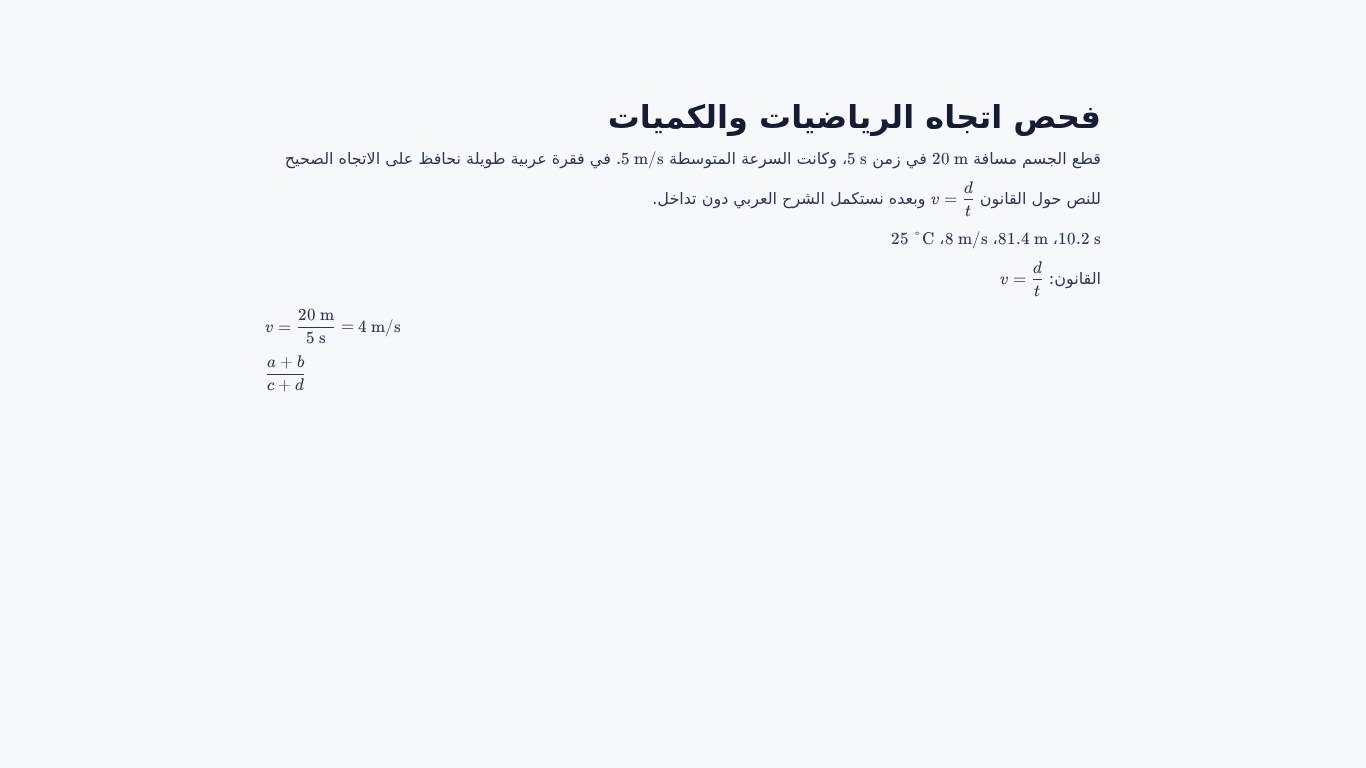
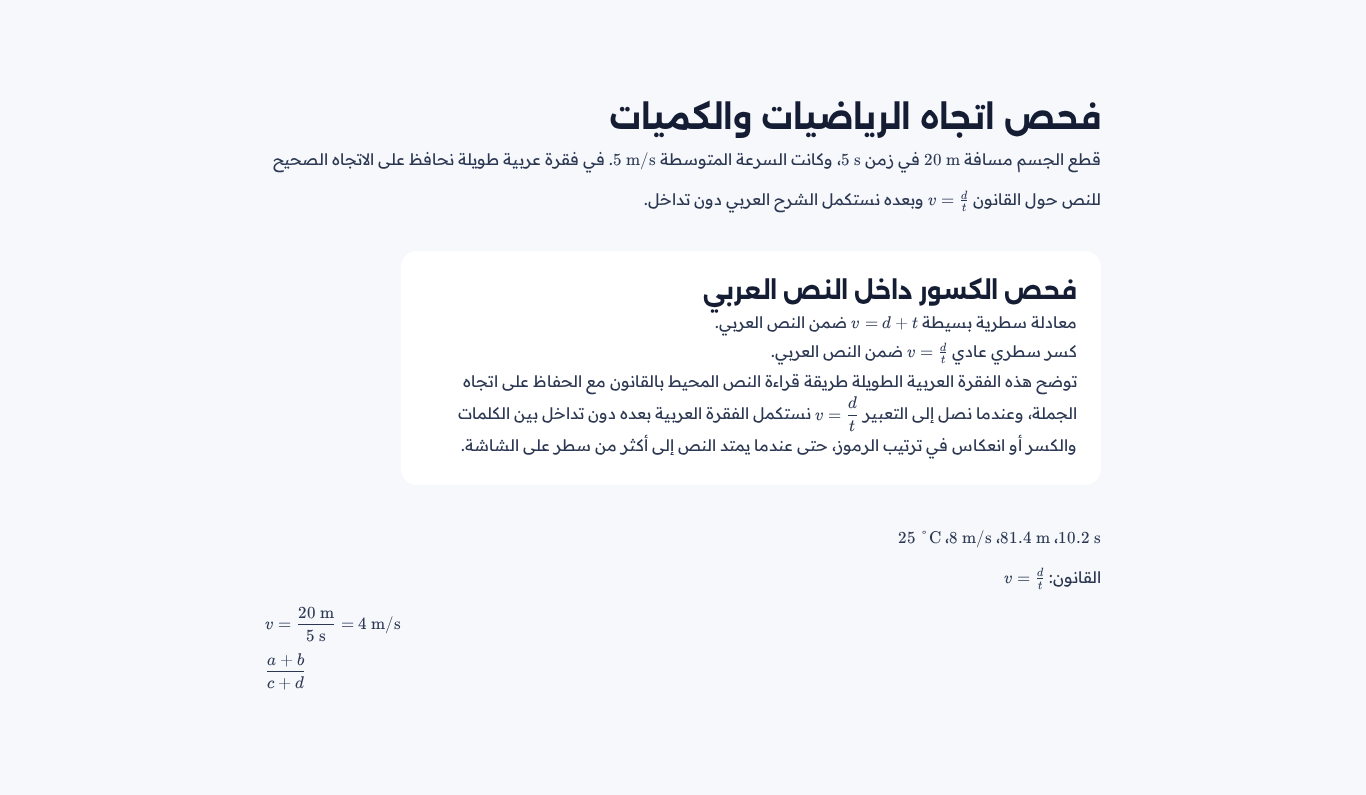
Keep inline math in text style and verify RTL fractions

diff --git a/e2e/fixture.tsx b/e2e/fixture.tsx
@@ -1,6 +1,9 @@
 import React from 'react'
 import { createRoot } from 'react-dom/client'
 import { BlockMath, Measure, RichText, Tex } from '../src/components/math/Math'
+import '@fontsource/readex-pro/400.css'
+import '@fontsource/readex-pro/700.css'
+import '@fontsource/alexandria/700.css'
 import '../src/styles/tokens.css'
 import '../src/styles/base.css'
 
@@ -8,6 +11,12 @@ createRoot(document.getElementById('root')!).render(
   <main style={{ maxWidth: 900, margin: '4rem auto', padding: '2rem', lineHeight: 2.5 }}>
     <h1>فحص اتجاه الرياضيات والكميات</h1>
     <p id="prose"><RichText text="قطع الجسم مسافة 20 m في زمن 5 s، وكانت السرعة المتوسطة 5 m/s. في فقرة عربية طويلة نحافظ على الاتجاه الصحيح للنص حول القانون $v=\frac{d}{t}$ وبعده نستكمل الشرح العربي دون تداخل." /></p>
+    <section id="inline-standards" style={{ maxWidth: 700, marginBlock: '2rem', padding: '1.5rem', background: 'white', borderRadius: '1rem', lineHeight: 'var(--lh-body)' }}>
+      <h2>فحص الكسور داخل النص العربي</h2>
+      <p id="inline-simple"><RichText text="معادلة سطرية بسيطة $v=d+t$ ضمن النص العربي." /></p>
+      <p id="inline-frac"><RichText text="كسر سطري عادي $v=\frac{d}{t}$ ضمن النص العربي." /></p>
+      <p id="long-fraction"><RichText text="توضح هذه الفقرة العربية الطويلة طريقة قراءة النص المحيط بالقانون مع الحفاظ على اتجاه الجملة، وعندما نصل إلى التعبير $v=\dfrac{d}{t}$ نستكمل الفقرة العربية بعده دون تداخل بين الكلمات والكسر أو انعكاس في ترتيب الرموز، حتى عندما يمتد النص إلى أكثر من سطر على الشاشة." /></p>
+    </section>
     <p id="values"><Measure value={10.2} unit="s" />، <Measure value={81.4} unit="m" />، <Measure value={8} unit="m/s" />، <Measure value={25} unit="°C" /></p>
     <p id="law">القانون: <Tex tex="v=\frac{d}{t}" /></p>
     <div id="substitution"><BlockMath tex="v=\frac{20\ \mathrm{m}}{5\ \mathrm{s}}=4\ \mathrm{m/s}" /></div>

diff --git a/src/components/math/Math.css b/src/components/math/Math.css
@@ -5,11 +5,10 @@
  *   • Every maths box is `dir="ltr"` + `unicode-bidi: isolate`, so the
  *     expression keeps its correct internal order while the Arabic sentence
  *     around it stays RTL — no mirroring of `=`, `/` or fraction bars.
- *   • Inline maths is `inline-block` so it never inflates the Arabic line
- *     height, and display maths scrolls inside its own box on narrow screens
- *     instead of pushing the page into horizontal scroll.
- *   • Unit symbols live in `.measure__unit` / `.unit` — always English, always
- *     isolated, never wrapped away from their number.
+ *   • Inline maths is `inline-block`: its line may grow when a taller fraction
+ *     needs room. Display maths scrolls within its own box when necessary.
+ *   • A `.measure` is one isolated KaTeX expression containing the value and
+ *     English unit. Standalone unit labels still use `.unit`.
  */
 
 .math {
@@ -70,15 +69,8 @@
   unicode-bidi: isolate;
 }
 
-.measure__unit,
 .unit {
   direction: ltr;
   unicode-bidi: isolate;
   font-weight: 700;
-}
-
-/* Inside dark panels (lab, formula card) the symbol takes the local colour. */
-.cb-formula .measure__unit,
-.motion-lab .measure__unit {
-  color: inherit;
 }

diff --git a/src/lib/tex.test.ts b/src/lib/tex.test.ts
@@ -56,6 +56,19 @@ describe('renderTex', () => {
     expect(block.html).toContain('katex-display')
   })
 
+  it('preserves normal inline style and lets authors choose a display-sized fraction', () => {
+    const simple = renderTex('v = d + t').html
+    const fraction = renderTex('v = \\frac{d}{t}').html
+    const largeFraction = renderTex('v = \\dfrac{d}{t}').html
+    expect(simple).not.toContain('\\displaystyle')
+    expect(fraction).not.toContain('\\displaystyle')
+    expect(simple).toContain('v = d + t</annotation>')
+    expect(fraction).toContain('<mfrac>')
+    expect(largeFraction).toContain('<mfrac>')
+    expect(fraction).not.toContain('displaystyle="true"')
+    expect(largeFraction).toContain('displaystyle="true"')
+  })
+
   it('ships MathML so screen readers can read the expression', () => {
     const { html } = renderTex('v = \\frac{d}{t}')
     expect(html).toContain('<math')

diff --git a/src/lib/tex.ts b/src/lib/tex.ts
@@ -47,7 +47,8 @@ const KATEX_OPTIONS = {
 export function renderTex(tex: string, displayMode = false): TexResult {
   try {
     return {
-      html: katex.renderToString(displayMode ? tex : `\\displaystyle ${tex}`, { ...KATEX_OPTIONS, displayMode }),
+      // Respect KaTeX text style inline; authors can opt into \dfrac locally.
+      html: katex.renderToString(tex, { ...KATEX_OPTIONS, displayMode }),
     }
   } catch (error) {
     return {
